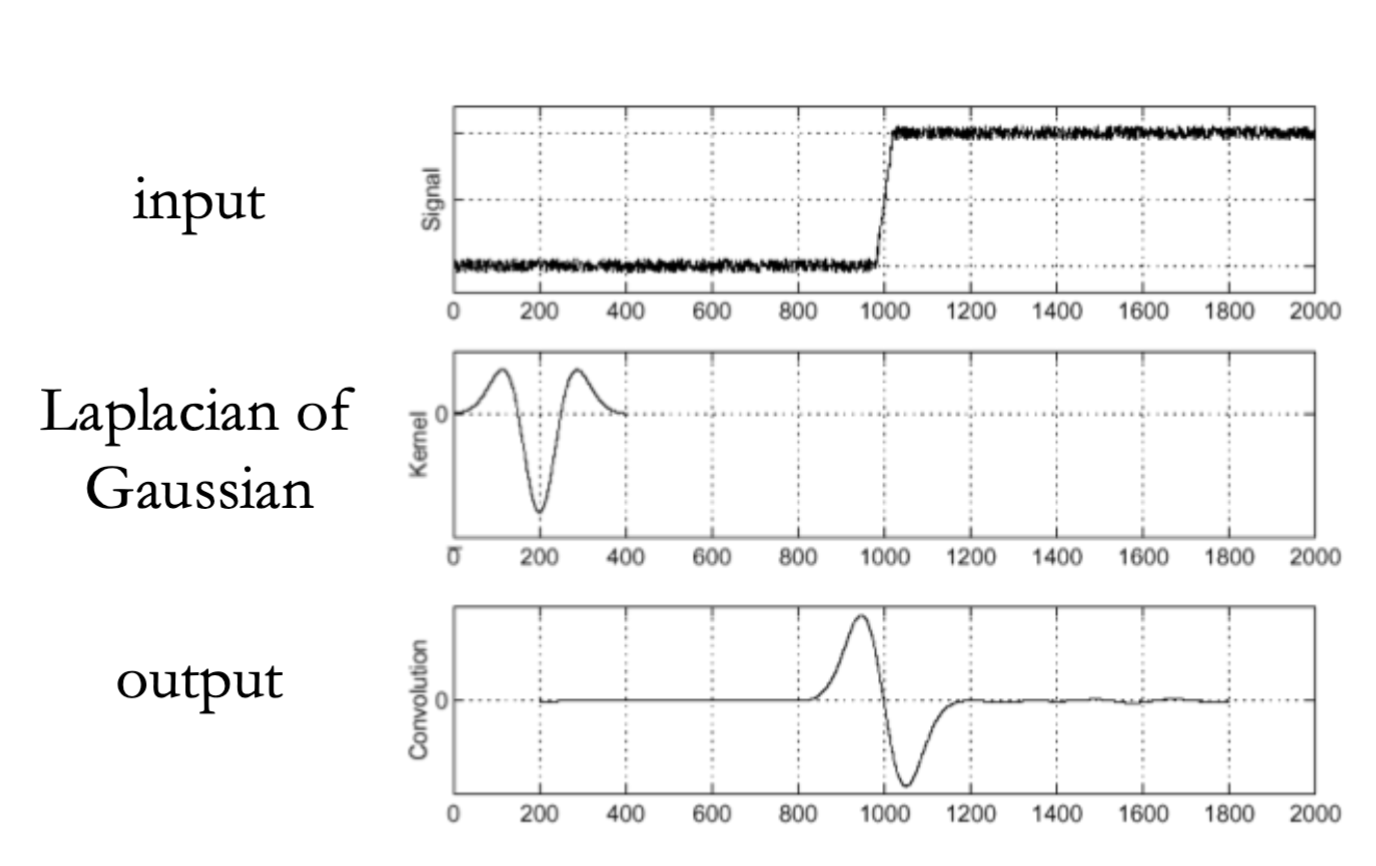
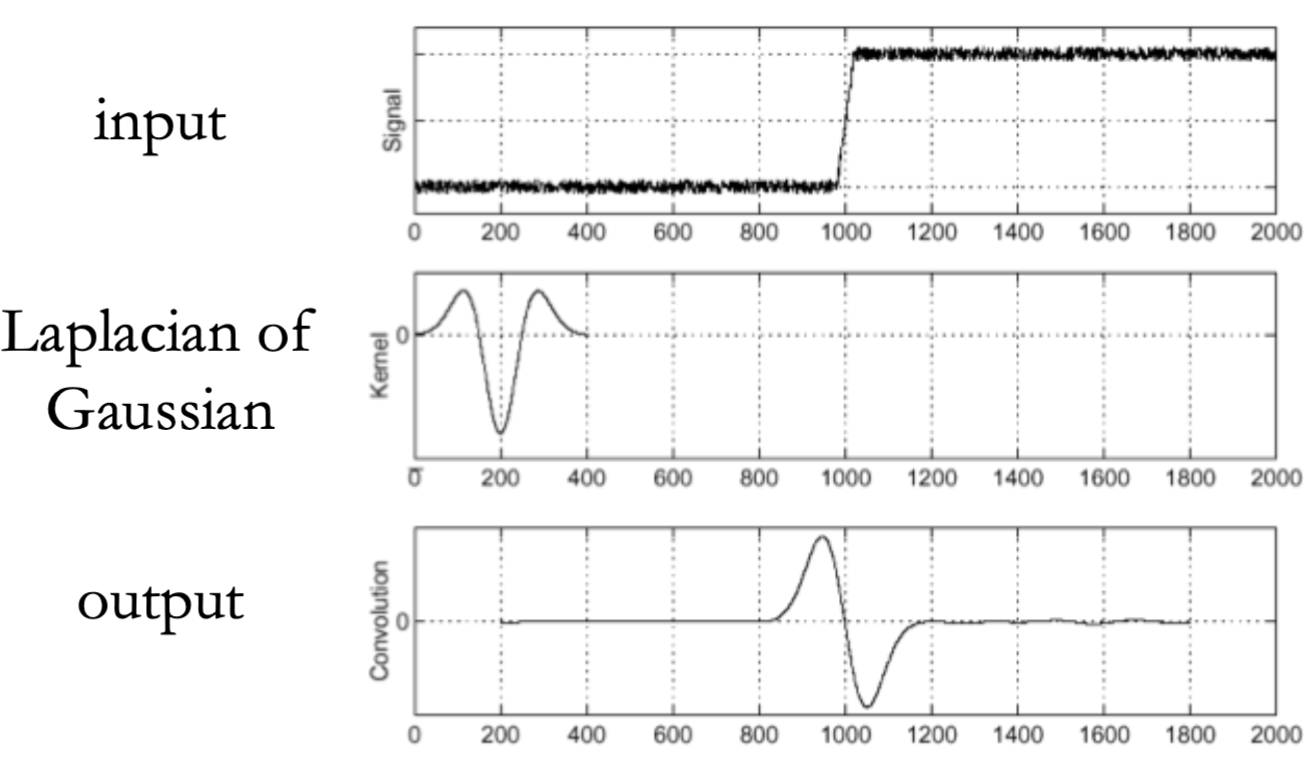
update NMS and interpolation

Changed region(s): [[0.0, 0.0303, 1.0, 1.0], [0.0611, 0.1517, 0.2137, 0.2731], [0.0611, 0.7586, 0.2137, 0.8496]]

diff --git a/main.tex b/main.tex
@@ -364,33 +364,37 @@ $g$: filter kernel, $h$: Gaussian kernel, $f$: input
 
 \textbf{Laplacian of Gaussian Filter}
 
-\vspace{-1em}
-\begin{center}
-    \includegraphics[width=0.75\linewidth]{laplacian.png}
-\end{center}
-\vspace{-1.5em}
+\noindent\begin{minipage}[c]{0.75\linewidth}
+    \centering
+    \includegraphics[width=\linewidth]{laplacian.png}
+\end{minipage}%
+\begin{minipage}[c]{0.25\linewidth}
+    \centering
+    \includegraphics[width=\linewidth]{laplace-filters.png}
+\end{minipage}
+
 \textbf{Zero crossings}. Localise edges more accurately but less convenient to use.
 
 \subsection{Canny Edge Detector}
 Deriv.\ of Gaussian $\rightarrow$ Grad.\ mag/orient. $\rightarrow$ NMS $\rightarrow$ Hysteresis thresh.\\
-\textbf{Non-Maximum Suppression}: Only keep local maximums for edges (so edges will be one pixel wide.
+\textbf{Non-Maximum Suppression}: Only keep local maximums for edges (so edges will be one pixel wide).\\
 \textit{Algorithm} Given magnitude map $M(x, y)$ and orientation map $\theta(x, y)$, for every $(x, y)$
 \begin{enumerate}
     \item Find two neighbours in that direction according to the nearest angle ($+\theta, -\theta$)
     \item Interpolate the two neighbour values, with value $= x * (a - b) + b$, where $a, b$ are the two real neighbour pixel magnitudes, and $x$ is the fractional distance, $x = \tan(\theta mod 90)$
-    \begin{center}
-        \includegraphics[width=0.75\linewidth]{interpolatenms.png}
-    \end{center}
     \item Compare centre pixel to interpolated neighbours. 
     \begin{formulabox}
         If $M(x, y) \geq $ both neighbours: keep $M(x, y)$
         Else: suppress and set $M(x, y) = 0$
     \end{formulabox}
 \end{enumerate}
+\begin{center}
+    \includegraphics[width=\linewidth]{interpolation.png}
+\end{center}
+\vspace{-1em}
 
 \textbf{Hysterisis Thresholding}: Set two thresholds, $H$ to start edge curves, and $L$ to grow and link edges (if connected to boundary, mark said pixel as boundary) \\
-\textit{Algorithm} $E_H$: all values passing $H$, $E_L$: all values passing $L$. Let $D = E_L - E_H$ (keep only edges of D connected to $E_H$) \\
-Final image: $E_H \cup D'$
+\textit{Algorithm} $E_H$: all values passing $H$, $E_L$: all values passing $L$. Let $D = E_L - E_H$ (keep only edges of D connected to $E_H$) $\Rightarrow$ Final image: $E_H \cup D'$
 
 \textbf{Hough Transform}
 \textit{Algorithm} Given magnitude map $M(x, y)$ and orientation map $\theta(x, y)$, for every $(x, y)$
